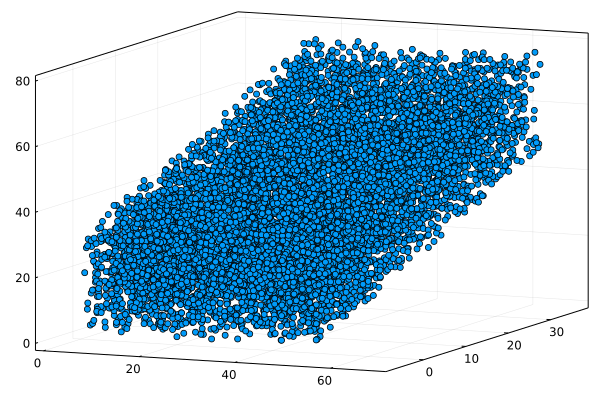
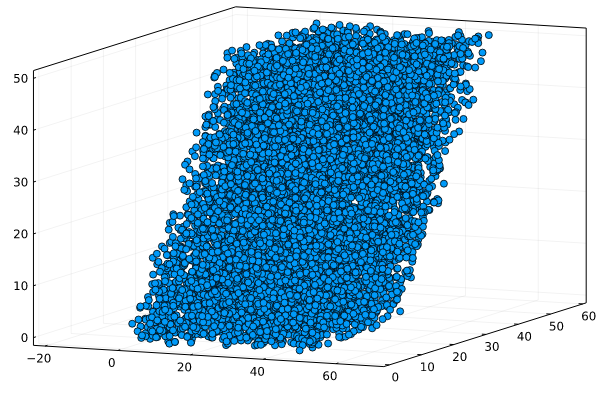
up readme

diff --git a/README.md b/README.md
@@ -78,12 +78,12 @@ Computing the mean difference in `x` position between random particles. The clos
 using CellListMap
 
 # System properties
-n = 100_000
+N = 100_000
 sides = [250,250,250]
 cutoff = 10
 
 # Particle positions
-x = [ box.sides .* rand(SVector{3,Float64}) for i in 1:n ]
+x = [ sides .* rand(3) for i in 1:N ]
 
 # Initialize linked lists and box structures
 box = Box(sides,cutoff)
@@ -94,10 +94,9 @@ f(x,y,sum_dx) = sum_dx + abs(x[1] - y[1])
 normalization = N / (N*(N-1)/2) # (number of particles) / (number of pairs)
 
 # Run calculation (0.0 is the initial value)
-avg_dx = normalization * map_parwise(
-  (x,y,i,j,d2,sum_dx) -> (x,y,sum_dx), 0.0, box, cl 
+avg_dx = normalization * map_pairwise!(
+  (x,y,i,j,d2,sum_dx) -> f(x,y,sum_dx), 0.0, box, cl 
 )
-
 ```
 
 The example above can be run with `CellListMap.test1()`. 
@@ -266,7 +265,9 @@ The full example can be run with `CellListMap.test7()`.
 
 ## Periodic boundary conditions
 
-Periodic boundary conditions of any kind can be used. Let us illustrate its use with a two-dimensional case, for easier visualization. A matrix of column-wise lattice vectors is provided in the construction of the box, and that is all. 
+Triclinic periodic boundary conditions of any kind can be used. However, the input has some limitations for the moment. The lattice vectors must have strictly positive coordinates, and the smallest distance within the cell cannot be smaller than twice the size of the cutoff. An error will be produced if the cell does not satisfy these conditions. 
+
+Let us illustrate building a two-dimensional cell, for easier visualization. A matrix of column-wise lattice vectors is provided in the construction of the box, and that is all. 
 
 Here, the lattice vectors are `[1,0]` and `[0.5,1]` (and we illustrate with `cutoff=0.1`): 
 
@@ -278,11 +279,9 @@ julia> x = 10*rand(SVector{2,Float64},1000);
 ```
 We have created random coordinates for `1000` particles, that are not necessarily wrapped according to the periodic boundary conditions. We can see the coordinates in the minimum image cell with:
 ```julia
-julia> p = [ CellListMap.wrap_to_first(x,box) for x in x ];
-
 julia> using Plots
 
-julia> scatter(Tuple.(p),aspect_ratio=1,framestyle=:box,label=:none)
+julia> CellListMap.draw_computing_cell(x,box)
 ```
 
 <img src=./src/assets/lattice.png>
@@ -292,28 +291,19 @@ The construction of the cell list is, as always, done with:
 ```julia
 julia> cl = CellList(x,box)
 CellList{2, Float64}
-  90 cells with real particles.
-  2065 particles in computing box, including images.
+  109 cells with real particles.
+  2041 particles in computing box, including images.
 
 ```
 
-Upon construction of the cell lists, the particles are replicated to fill a rectangular box (or orthorhombic box, in three-dimensions), with boundaries that exceed the actual system size. This improves the performance of the pairwise computations by avoding the necessity of wrapping coordinates on the main loop (this is an implementation detail only). The resulting box can be visualized with:
-
-```julia
-julia> p = CellListMap.view_celllist_particles(cl,box);
-
-julia> scatter(Tuple.(p),aspect_ratio=1,framestyle=:box,label=:none)
-```
-<img src=./src/assets/replicated.png>
-
-These are the particles that will be considered for the calculations. 
+Upon construction of the cell lists, the particles are replicated to fill a rectangular box (or orthorhombic box, in three-dimensions), with boundaries that exceed the actual system size. This improves the performance of the pairwise computations by avoding the necessity of wrapping coordinates on the main loop (this is an implementation detail only). 
 
 In summary, to use arbitrary periodic boundary conditions, just initialize the box with the matrix of lattice vectors. In three dimensions, for example, one could use:
 
 ```julia
-julia> box = Box([ 50.  0. 20. 
-                    0.  0. 30.          
-                    0. 30. 50. ], 10.)
+julia> box = Box([ 50.  0. 00. 
+                    0. 30. 30.          
+                    0. 00. 50. ],  2.)
 
 julia> x = 100*rand(SVector{3,Float64},10000);
 
@@ -423,7 +413,7 @@ box = Box(x,box,lcell=2)
 cl = CellList(x,box)
 map_pairwise!(...)
 ```
-This parameter determines how fine is the mesh of cells. There is a trade-off between the number of cells and the number of particles per cell. For low-density systems, greater meshes are better, because each cell will have only a few particles and the computations loop over a samller number of cells. For dense systems, it is better to run over more cells with less particles per cell. It is a good idea to test different values of `lcell` to check which is the optimal choice for your system. Usually the best value is between `lcell=1` and `lcell=6`, but for large and dense systems a larger value may be optimal. For molecular systems with normal densities `lcell=2` is likely the optimal choice. The peformance can be tested using the progress meter, as explained below.  
+This parameter determines how fine is the mesh of cells. There is a trade-off between the number of cells and the number of particles per cell. For low-density systems, greater meshes are better, because each cell will have only a few particles and the computations loop over a samller number of cells. For dense systems, it is better to run over more cells with less particles per cell. It is a good idea to test different values of `lcell` to check which is the optimal choice for your system. Usually the best value is between `lcell=1` and `lcell=6`, but for large and dense systems a larger value may be optimal. For molecular systems with normal densities `lcell=1` is likely the optimal choice. The peformance can be tested using the progress meter, as explained below.  
 
 ### Output progress 
 
